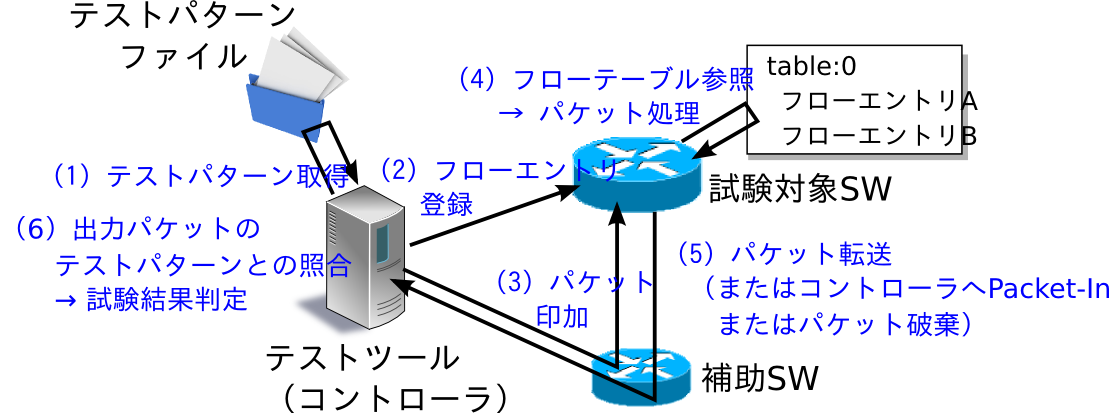
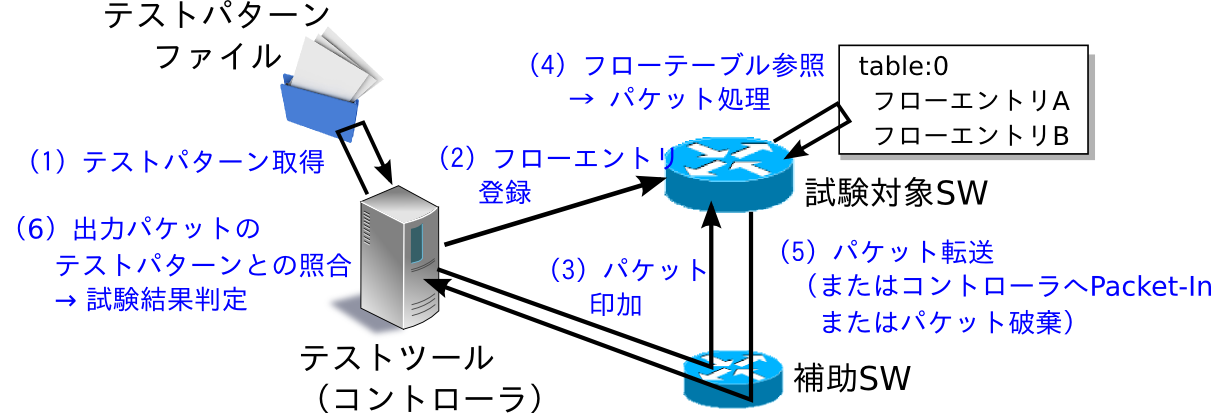
ja/html: 3e18f4d sw_test_tool: update image

diff --git a/ja/html/switch_test_tool.html b/ja/html/switch_test_tool.html
@@ -81,7 +81,7 @@
 <div class="section" id="id3">
 <h4>試験実行イメージ<a class="headerlink" href="#id3" title="このヘッドラインへのパーマリンク">¶</a></h4>
 <p>テストツールを実行した際の動作イメージを示します。テストパターンファイルには、「登録するフローエントリ」「印加パケット」「期待する処理結果」が記述されます。また、ツール実行のための環境設定については後述(<a class="reference internal" href="#id8">ツール実行環境</a>を参照)します。</p>
-<a class="reference internal image-reference" href="_images/fig16.png"><img alt="_images/fig16.png" class="align-center" src="_images/fig16.png" style="width: 665.4px; height: 247.8px;" /></a>
+<a class="reference internal image-reference" href="_images/fig16.png"><img alt="_images/fig16.png" class="align-center" src="_images/fig16.png" style="width: 726.6px; height: 247.8px;" /></a>
 </div>
 <div class="section" id="id4">
 <h4>試験結果の出力イメージ<a class="headerlink" href="#id4" title="このヘッドラインへのパーマリンク">¶</a></h4>
